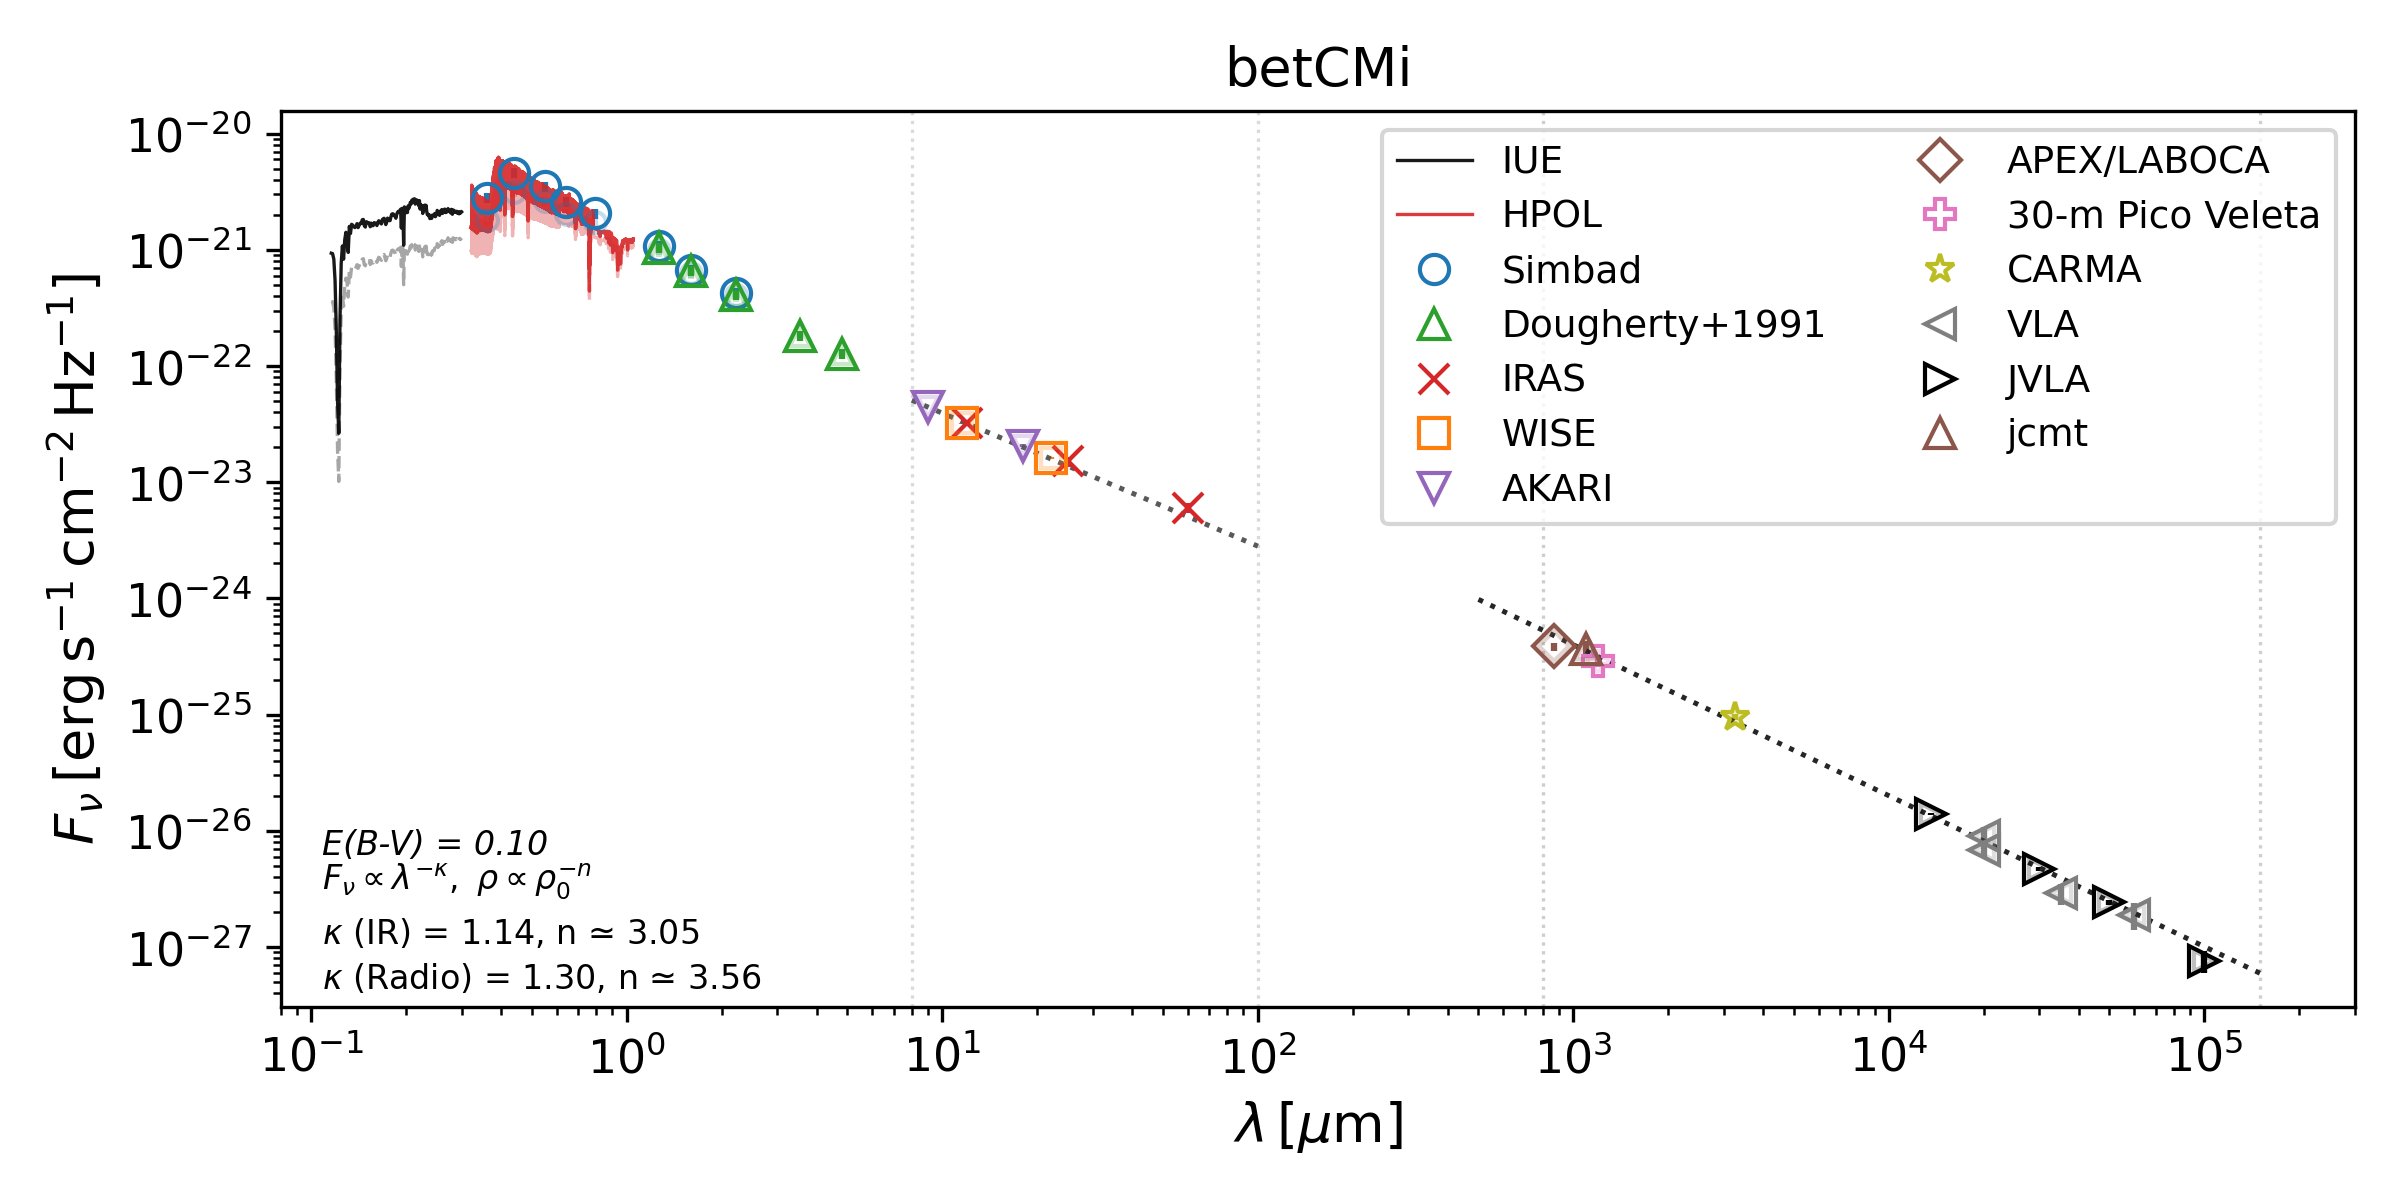
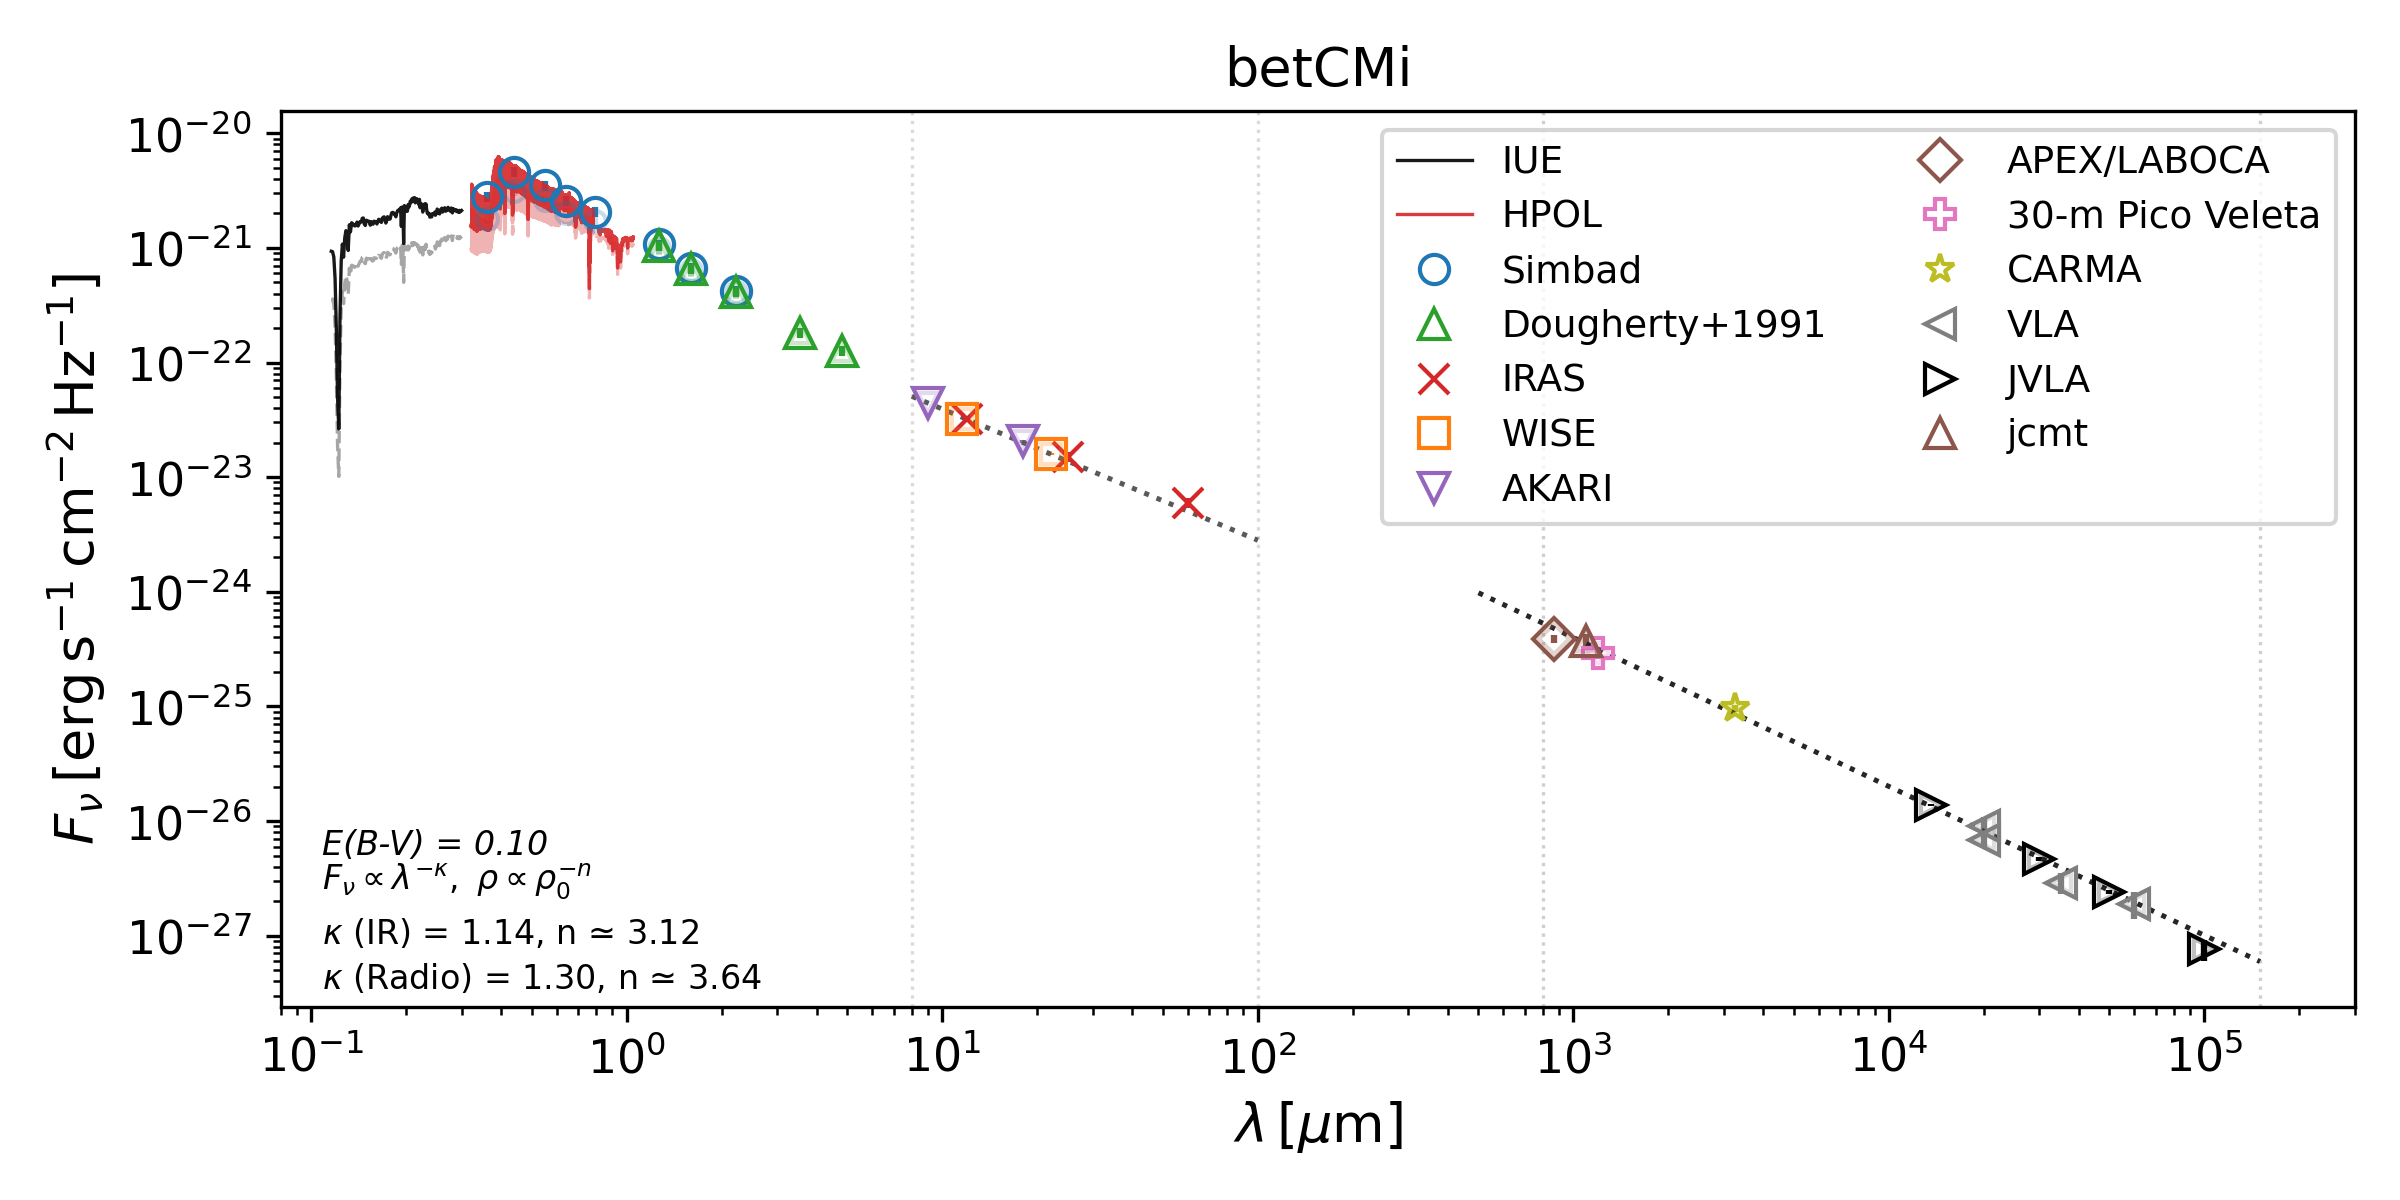
eq20 bug fix

diff --git a/plot_SED.py b/plot_SED.py
@@ -32,9 +32,9 @@ except Exception:
 #
 # USER CONFIG (edit these in-script if you prefer not passing CLI args)
 #
-starlist = ('HD44637', '10CMa', '20Vul', '25Vul', '25Peg', '120Tau', 'epsPsA', 'HR2249',\
-            'omeOri', 'upsCyg', 'zetCrv')
-# starlist = ('gamCas',)
+# starlist = ('HD44637', '10CMa', '20Vul', '25Vul', '25Peg', '120Tau', 'epsPsA', 'HR2249',\
+#             'omeOri', 'upsCyg', 'zetCrv')
+starlist = ('betCMi',)
 photometry_file = "{star}/{star}_photometry.dat"
 plot_file = "{star}/{star}_SED.png"
 iue_avg_file = "{star}/{star}_iue_average_jy.dat"
